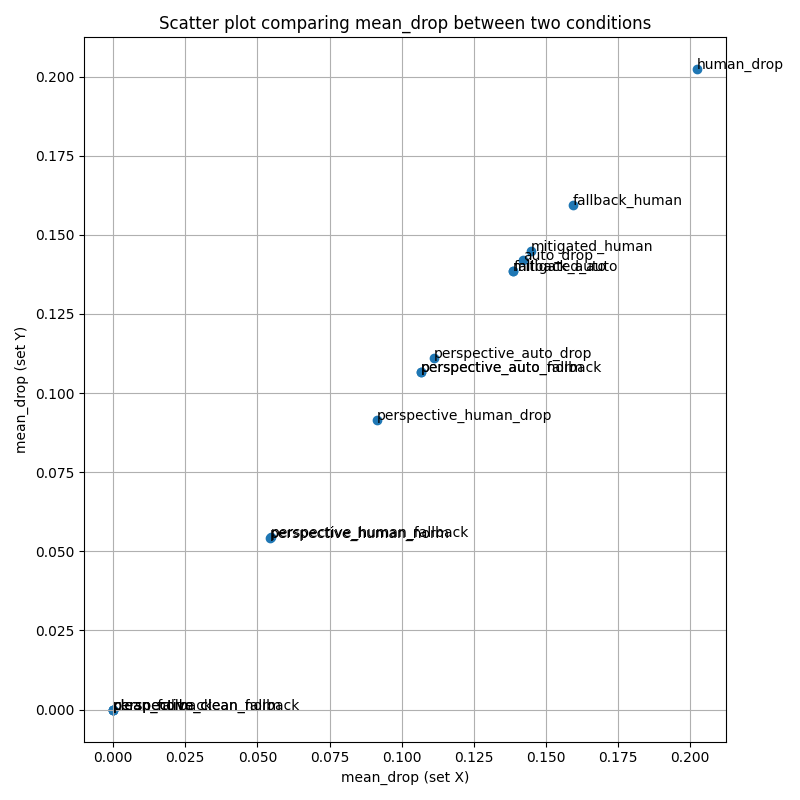
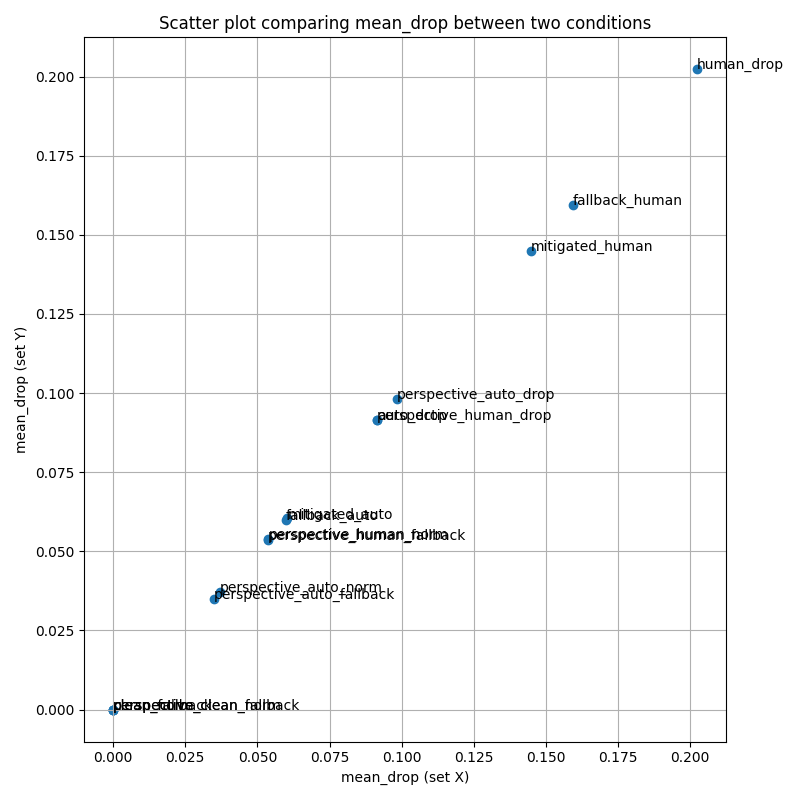
improved automated attacks

diff --git a/data/automated.py b/data/automated.py
@@ -1,13 +1,90 @@
 from textattack.augmentation import WordNetAugmenter
-import pandas as pd
+import random
+import unicodedata
+import numpy as np
 
-def automated_perturbation(texts, num_examples=5):
+# Homoglyph and leetspeak mappings
+HOMOGLYPHS = {
+    "a": "a", "e": "e", "i": "i", "o": "o", "u": "u",
+    "A": "A", "E": "E", "O": "O", "P": "P", "C": "C"
+}
+
+LEET_MAP = {
+    "a": "4", "e": "3", "i": "1", "o": "0", "s": "5", "t": "7"
+}
+
+
+def random_char_noise(text):
+    """Simple char-level perturbation."""
+    if len(text) < 2:
+        return text
+    i = random.randint(0, len(text) - 1)
+    ops = [
+        text[:i] + text[i]*2 + text[i+1:],               # duplication
+        text[:i] + "" + text[i+1:],                      # deletion
+        text[:i] + random.choice("!?.*") + text[i:],     # insertion
+    ]
+    return random.choice(ops)
+
+
+def homoglyph_attack(text):
+    """Replace characters with Unicode lookalikes."""
+    return "".join(HOMOGLYPHS.get(c, c) for c in text)
+
+
+def leetspeak(text):
+    """Replace letters with numbers/symbols."""
+    return "".join(LEET_MAP.get(c.lower(), c) for c in text)
+
+
+def random_spacing(text):
+    """Insert random spaces inside words."""
+    return "".join(c + (" " if random.random() < 0.15 else "") for c in text)
+
+
+def random_casing(text):
+    return "".join(c.upper() if random.random() < 0.3 else c.lower() for c in text)
+
+
+def punctuation_injection(text):
+    """Add random punctuation breaks."""
+    punct = ["*", "-", "~", ".", "!", "…"]
+    return "".join(c + (random.choice(punct) if random.random() < 0.1 else "") for c in text)
+
+
+def automated_perturbation(texts, num_examples=50):
     """
-    Generates machine-based obfuscations using synonym replacement.
+    Generates stronger and more diverse automated obfuscations.
     """
     augmenter = WordNetAugmenter()
-    perturbed = [augmenter.augment(text)[0] if text else text for text in texts[:num_examples]]
+
+    attacks = [
+        lambda x: augmenter.augment(x)[0],
+        random_char_noise,
+        homoglyph_attack,
+        leetspeak,
+        random_spacing,
+        random_casing,
+        punctuation_injection,
+    ]
+
+    perturbed = []
+    for t in texts[:num_examples]:
+        if not t:
+            perturbed.append("")
+            continue
+
+        attack = random.choice(attacks)
+        try:
+            out = attack(t)
+        except Exception:
+            out = t  # fallback if attack breaks
+
+        perturbed.append(out)
+
     return perturbed
+
+
 
 if __name__ == "__main__":
     sample_texts = ["I hate you", "You're so dumb", "Go away"]
